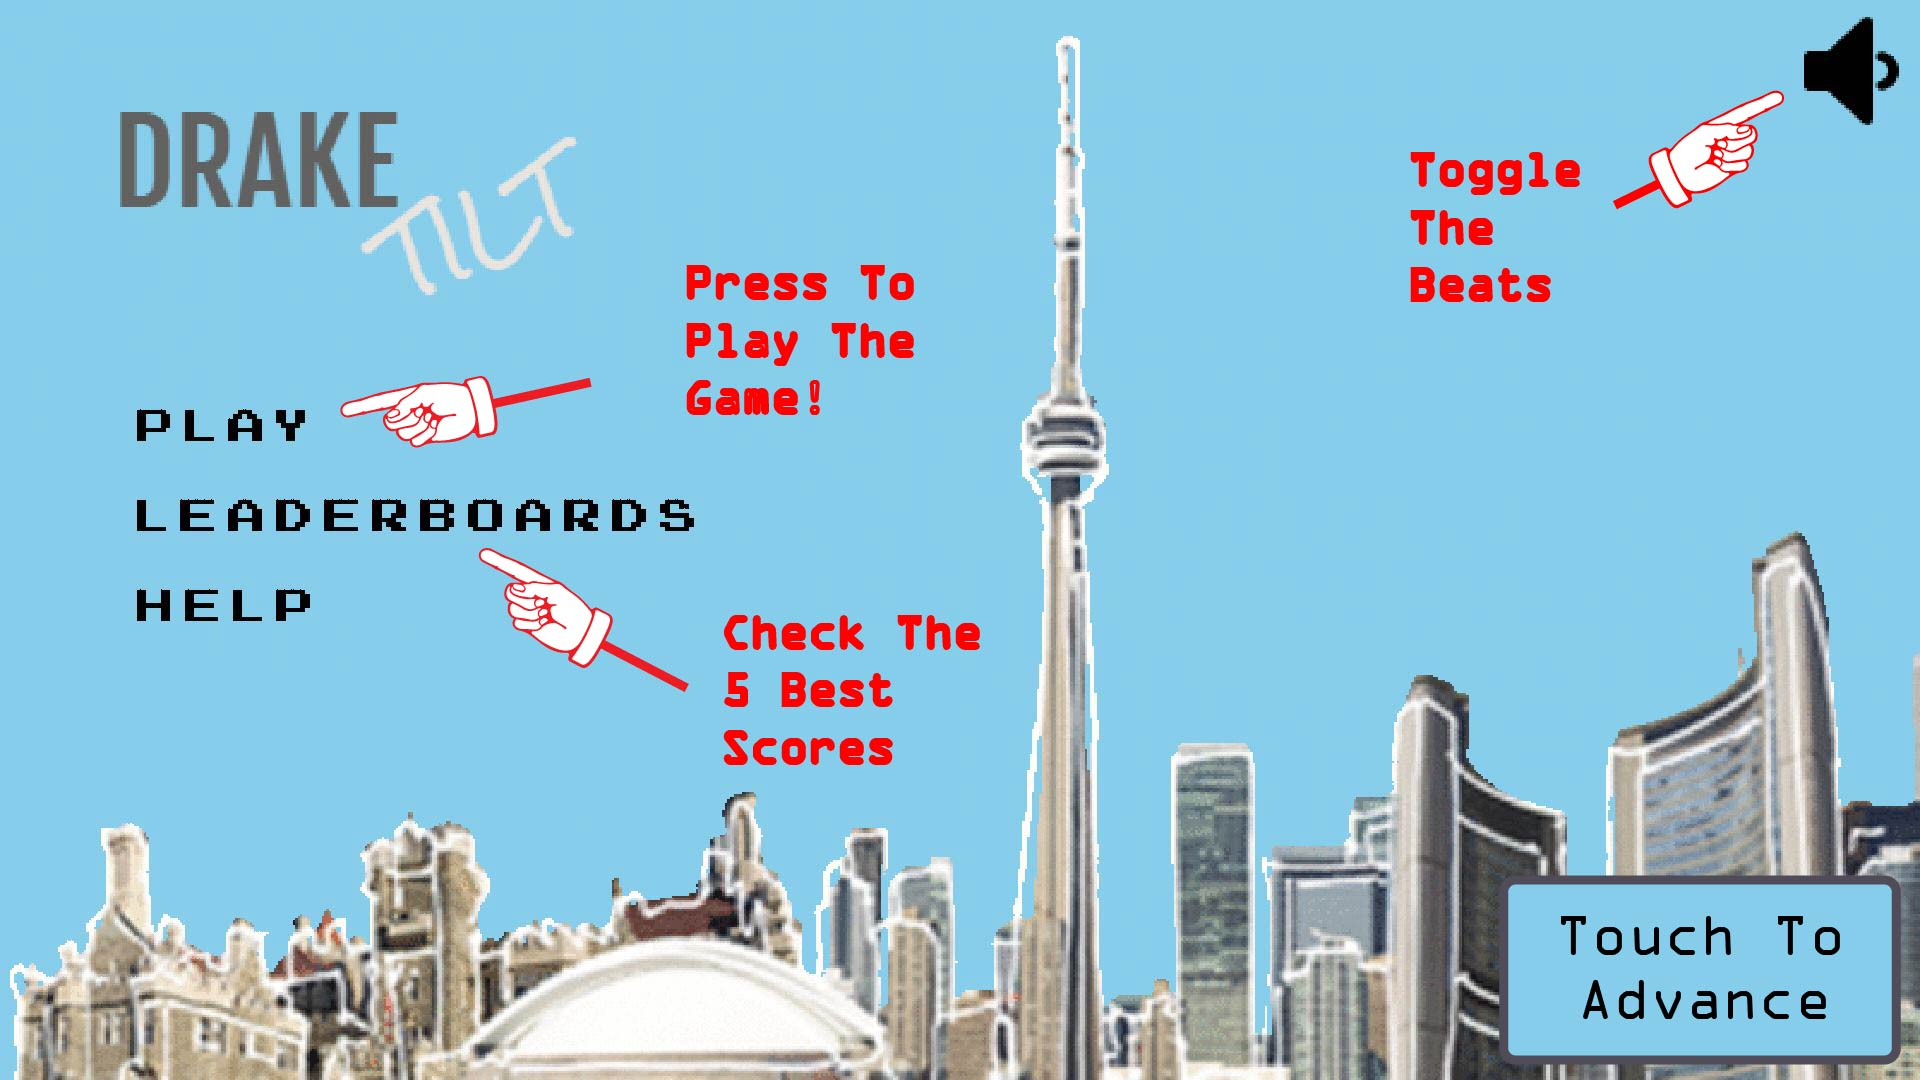
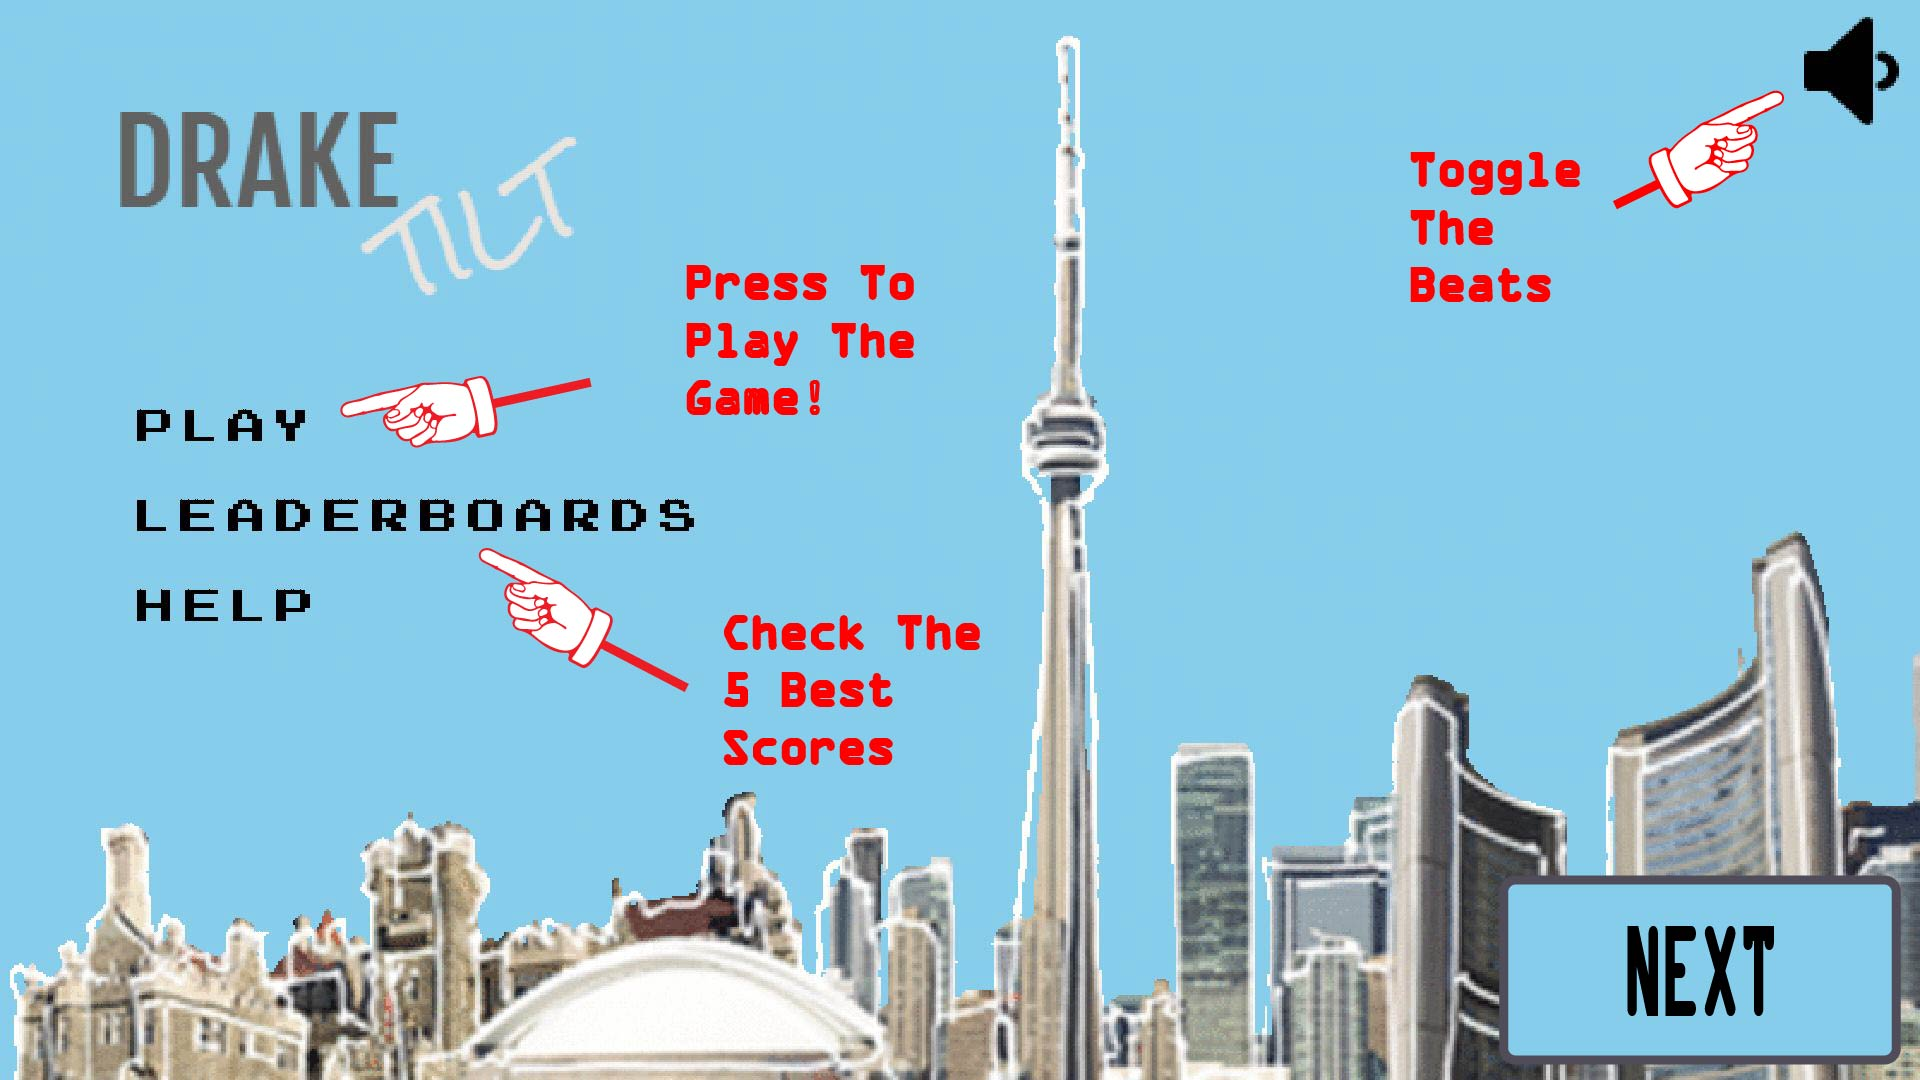
Next and Power ups on Help Screen

Changed region(s): [[0.8125, 0.825, 0.9688, 0.9472]]

diff --git a/DrakeTilt/core/src/com/draketilt/game/HelpScreen.java b/DrakeTilt/core/src/com/draketilt/game/HelpScreen.java
@@ -14,6 +14,7 @@ public class HelpScreen extends ScreenAdapter {
     static final int SCREEN_2 = 1;
     static final int SCREEN_3 = 2;
     static final int SCREEN_4 = 3;
+    static final int SCREEN_5 = 4;
     int state;
 
     DrakeTilt game;
@@ -43,6 +44,9 @@ public class HelpScreen extends ScreenAdapter {
                     state = SCREEN_4;
                     break;
                 case SCREEN_4:
+                    state = SCREEN_5;
+                    break;
+                case SCREEN_5:
                     game.setScreen(new MainMenuScreen(game));
                     Gdx.input.setCatchBackKey(false);
                     return;
@@ -78,6 +82,12 @@ public class HelpScreen extends ScreenAdapter {
             case SCREEN_4:
                 game.batcher.begin();
                 game.batcher.draw(Assets.helpScreen4, -Settings.GAME_WIDTH/2,
+                        -Settings.GAME_HEIGHT/2, Settings.GAME_WIDTH, Settings.GAME_HEIGHT);
+                game.batcher.end();
+                break;
+            case SCREEN_5:
+                game.batcher.begin();
+                game.batcher.draw(Assets.helpScreen5, -Settings.GAME_WIDTH/2,
                         -Settings.GAME_HEIGHT/2, Settings.GAME_WIDTH, Settings.GAME_HEIGHT);
                 game.batcher.end();
                 break;

diff --git a/DrakeTilt/core/src/com/draketilt/game/Assets.java b/DrakeTilt/core/src/com/draketilt/game/Assets.java
@@ -27,6 +27,7 @@ public class Assets {
     public static Texture helpScreen2;
     public static Texture helpScreen3;
     public static Texture helpScreen4;
+    public static Texture helpScreen5;
     public static Texture backButton;
     public static BitmapFont font;
     public static BitmapFont titleFont;
@@ -47,6 +48,7 @@ public class Assets {
         helpScreen2 = loadTexture("helpScreen2.jpg");
         helpScreen3 = loadTexture("helpScreen3.jpg");
         helpScreen4 = loadTexture("helpScreen4.jpg");
+        helpScreen5 = loadTexture("helpScreen5.jpg");
         backgroundRegion = new TextureRegion(background, 0, 0, 800, 480);
         mainMenuBackgroundRegion = new TextureRegion(mainMenuBackground, 0, 0, 800, 480);
 
